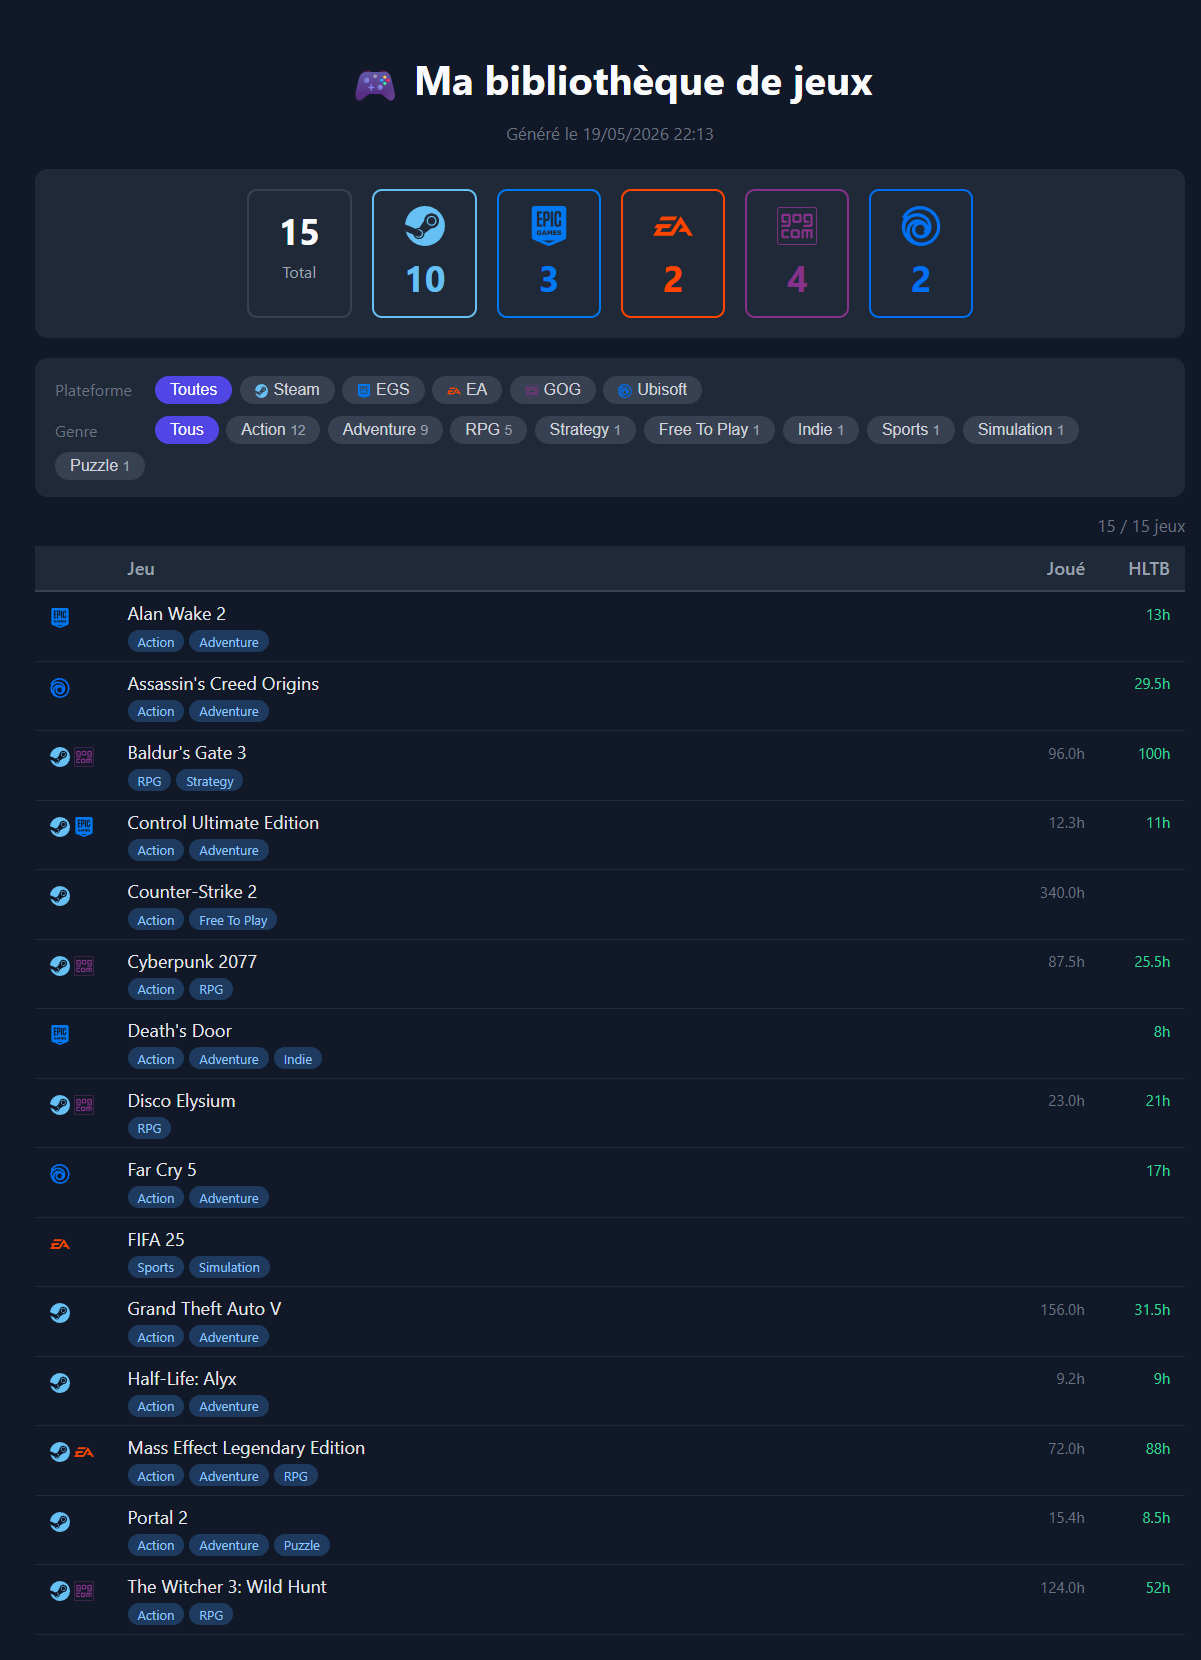
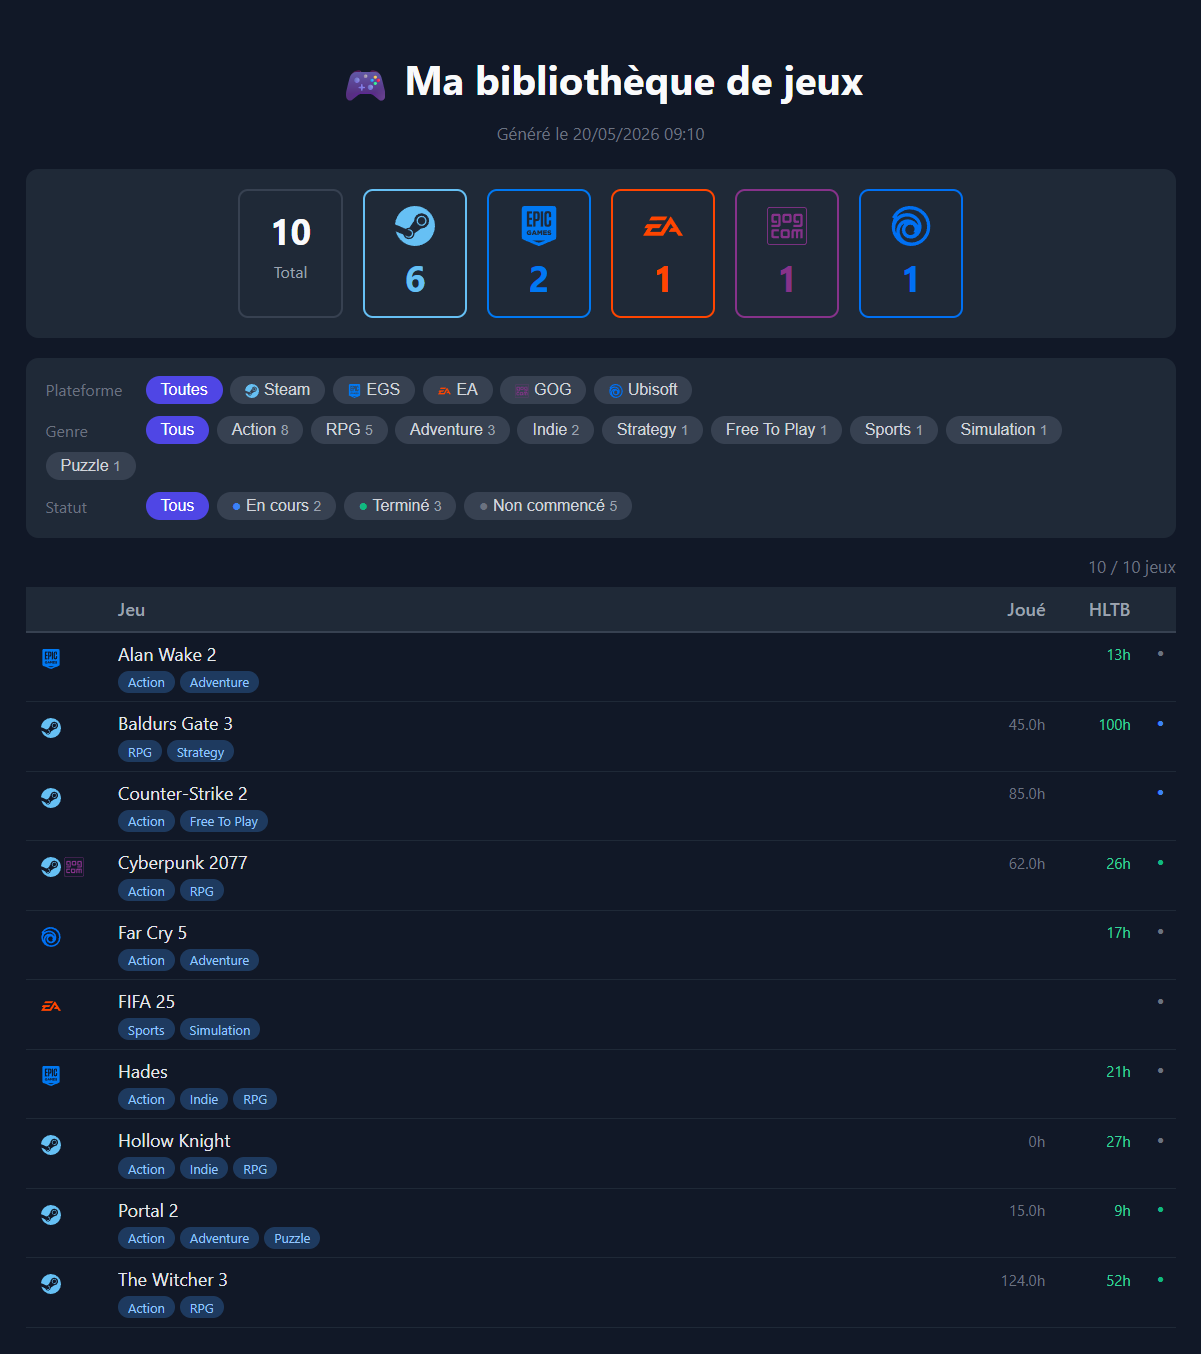
feat: filtre statut progression (A faire / En cours / Termine / Non commence)

diff --git a/docs/preview.html b/docs/preview.html
@@ -39,6 +39,8 @@
   td.hrs  { text-align:right; color:#6b7280; font-size:.85em; width:72px; padding-top:9px; }
   td.hltb { text-align:right; color:#34d399; font-size:.82em; width:68px; padding-top:9px; cursor:default; }
   thead th.hltb { text-align:right; }
+  td.sdot  { text-align:center; width:20px; padding:9px 2px 0; font-size:.65em; cursor:default; }
+  thead th.sdot { width:20px; }
   .tags { display:flex; gap:4px; flex-wrap:wrap; margin-top:4px; }
   .tag  { background:#1e3a5f; color:#93c5fd; font-size:.72em; padding:2px 8px;
             border-radius:10px; }
@@ -46,14 +48,14 @@
 </head>
 <body>
 <h1>🎮 Ma bibliothèque de jeux</h1>
-<p class="ts">Généré le 19/05/2026 22:13</p>
+<p class="ts">Généré le 20/05/2026 09:10</p>
 <div class="stats">
-<div class="stat"><div class="num">15</div><div class="lbl">Total</div></div>
-<div class="stat" style="border-color:#66c0f4"><img src="https://cdn.simpleicons.org/steam/66c0f4" alt="Steam" height="32" title="Steam"><div class="num" style="color:#66c0f4">10</div></div>
-<div class="stat" style="border-color:#0078f2"><img src="https://cdn.simpleicons.org/epicgames/0078f2" alt="EGS" height="32" title="EGS"><div class="num" style="color:#0078f2">3</div></div>
-<div class="stat" style="border-color:#ff4500"><img src="https://cdn.simpleicons.org/ea/ff4500" alt="EA" height="32" title="EA"><div class="num" style="color:#ff4500">2</div></div>
-<div class="stat" style="border-color:#86328a"><img src="https://cdn.simpleicons.org/gogdotcom/86328a" alt="GOG" height="32" title="GOG"><div class="num" style="color:#86328a">4</div></div>
-<div class="stat" style="border-color:#0070f3"><img src="https://cdn.simpleicons.org/ubisoft/0070f3" alt="Ubisoft" height="32" title="Ubisoft"><div class="num" style="color:#0070f3">2</div></div>
+<div class="stat"><div class="num">10</div><div class="lbl">Total</div></div>
+<div class="stat" style="border-color:#66c0f4"><img src="https://cdn.simpleicons.org/steam/66c0f4" alt="Steam" height="32" title="Steam"><div class="num" style="color:#66c0f4">6</div></div>
+<div class="stat" style="border-color:#0078f2"><img src="https://cdn.simpleicons.org/epicgames/0078f2" alt="EGS" height="32" title="EGS"><div class="num" style="color:#0078f2">2</div></div>
+<div class="stat" style="border-color:#ff4500"><img src="https://cdn.simpleicons.org/ea/ff4500" alt="EA" height="32" title="EA"><div class="num" style="color:#ff4500">1</div></div>
+<div class="stat" style="border-color:#86328a"><img src="https://cdn.simpleicons.org/gogdotcom/86328a" alt="GOG" height="32" title="GOG"><div class="num" style="color:#86328a">1</div></div>
+<div class="stat" style="border-color:#0070f3"><img src="https://cdn.simpleicons.org/ubisoft/0070f3" alt="Ubisoft" height="32" title="Ubisoft"><div class="num" style="color:#0070f3">1</div></div>
 
 </div>
 <div class="filters">
@@ -70,50 +72,56 @@
   <div class="filter-row">
     <span class="filter-label">Genre</span>
     <button class="fbtn active" data-type="genre" data-val="all">Tous</button>
-<button class="fbtn" data-type="genre" data-val="action">Action <span class="gcnt">12</span></button>
-<button class="fbtn" data-type="genre" data-val="adventure">Adventure <span class="gcnt">9</span></button>
+<button class="fbtn" data-type="genre" data-val="action">Action <span class="gcnt">8</span></button>
 <button class="fbtn" data-type="genre" data-val="rpg">RPG <span class="gcnt">5</span></button>
+<button class="fbtn" data-type="genre" data-val="adventure">Adventure <span class="gcnt">3</span></button>
+<button class="fbtn" data-type="genre" data-val="indie">Indie <span class="gcnt">2</span></button>
 <button class="fbtn" data-type="genre" data-val="strategy">Strategy <span class="gcnt">1</span></button>
 <button class="fbtn" data-type="genre" data-val="free-to-play">Free To Play <span class="gcnt">1</span></button>
-<button class="fbtn" data-type="genre" data-val="indie">Indie <span class="gcnt">1</span></button>
 <button class="fbtn" data-type="genre" data-val="sports">Sports <span class="gcnt">1</span></button>
 <button class="fbtn" data-type="genre" data-val="simulation">Simulation <span class="gcnt">1</span></button>
 <button class="fbtn" data-type="genre" data-val="puzzle">Puzzle <span class="gcnt">1</span></button>
 
   </div>
+  <div class="filter-row">
+    <span class="filter-label">Statut</span>
+    <button class="fbtn active" data-type="status" data-val="all">Tous</button>
+<button class="fbtn" data-type="status" data-val="en-cours"><span style="color:#3b82f6">●</span> En cours <span class="gcnt">2</span></button>
+<button class="fbtn" data-type="status" data-val="termine"><span style="color:#10b981">●</span> Terminé <span class="gcnt">3</span></button>
+<button class="fbtn" data-type="status" data-val="non-commence"><span style="color:#6b7280">●</span> Non commencé <span class="gcnt">5</span></button>
+
+  </div>
 </div>
-<p class="count-info"><span id="vis-count">15</span> / 15 jeux</p>
+<p class="count-info"><span id="vis-count">10</span> / 10 jeux</p>
 <table>
-  <thead><tr><th></th><th>Jeu</th><th class="hrs">Joué</th><th class="hltb" title="Temps principal (HowLongToBeat)">HLTB</th></tr></thead>
+  <thead><tr><th></th><th>Jeu</th><th class="hrs">Joué</th><th class="hltb" title="Temps principal (HowLongToBeat)">HLTB</th><th class="sdot"></th></tr></thead>
   <tbody>
-<tr data-plats='egs' data-genres='action adventure'><td class='plat'><img src="https://cdn.simpleicons.org/epicgames/0078f2" alt="EGS" height="16" title="EGS"></td><td>Alan Wake 2<div class="tags"><span class="tag">Action</span><span class="tag">Adventure</span></div></td><td class="hrs"></td><td class="hltb" title="Extra 18.5h | 100 % 24h"><a href="https://howlongtobeat.com/game/68160" target="_blank" rel="noopener" style="color:inherit;text-decoration:none">13h</a></td></tr>
-<tr data-plats='ubisoft' data-genres='action adventure'><td class='plat'><img src="https://cdn.simpleicons.org/ubisoft/0070f3" alt="Ubisoft" height="16" title="Ubisoft"></td><td>Assassin's Creed Origins<div class="tags"><span class="tag">Action</span><span class="tag">Adventure</span></div></td><td class="hrs"></td><td class="hltb" title="Extra 54.5h | 100 % 83h"><a href="https://howlongtobeat.com/game/38050" target="_blank" rel="noopener" style="color:inherit;text-decoration:none">29.5h</a></td></tr>
-<tr data-plats='steam gog' data-genres='rpg strategy'><td class='plat'><img src="https://cdn.simpleicons.org/steam/66c0f4" alt="Steam" height="16" title="Steam"><img src="https://cdn.simpleicons.org/gogdotcom/86328a" alt="GOG" height="16" title="GOG"></td><td>Baldur's Gate 3<div class="tags"><span class="tag">RPG</span><span class="tag">Strategy</span></div></td><td class="hrs">96.0h</td><td class="hltb" title="Extra 155h | 100 % 200h"><a href="https://howlongtobeat.com/game/75516" target="_blank" rel="noopener" style="color:inherit;text-decoration:none">100h</a></td></tr>
-<tr data-plats='steam egs' data-genres='action adventure'><td class='plat'><img src="https://cdn.simpleicons.org/steam/66c0f4" alt="Steam" height="16" title="Steam"><img src="https://cdn.simpleicons.org/epicgames/0078f2" alt="EGS" height="16" title="EGS"></td><td>Control Ultimate Edition<div class="tags"><span class="tag">Action</span><span class="tag">Adventure</span></div></td><td class="hrs">12.3h</td><td class="hltb" title="Extra 16h | 100 % 22h"><a href="https://howlongtobeat.com/game/52435" target="_blank" rel="noopener" style="color:inherit;text-decoration:none">11h</a></td></tr>
-<tr data-plats='steam' data-genres='action free-to-play'><td class='plat'><img src="https://cdn.simpleicons.org/steam/66c0f4" alt="Steam" height="16" title="Steam"></td><td>Counter-Strike 2<div class="tags"><span class="tag">Action</span><span class="tag">Free To Play</span></div></td><td class="hrs">340.0h</td><td class="hltb"></td></tr>
-<tr data-plats='steam gog' data-genres='action rpg'><td class='plat'><img src="https://cdn.simpleicons.org/steam/66c0f4" alt="Steam" height="16" title="Steam"><img src="https://cdn.simpleicons.org/gogdotcom/86328a" alt="GOG" height="16" title="GOG"></td><td>Cyberpunk 2077<div class="tags"><span class="tag">Action</span><span class="tag">RPG</span></div></td><td class="hrs">87.5h</td><td class="hltb" title="Extra 55h | 100 % 100h"><a href="https://howlongtobeat.com/game/68606" target="_blank" rel="noopener" style="color:inherit;text-decoration:none">25.5h</a></td></tr>
-<tr data-plats='egs' data-genres='action adventure indie'><td class='plat'><img src="https://cdn.simpleicons.org/epicgames/0078f2" alt="EGS" height="16" title="EGS"></td><td>Death's Door<div class="tags"><span class="tag">Action</span><span class="tag">Adventure</span><span class="tag">Indie</span></div></td><td class="hrs"></td><td class="hltb" title="Extra 12h | 100 % 15h"><a href="https://howlongtobeat.com/game/82118" target="_blank" rel="noopener" style="color:inherit;text-decoration:none">8h</a></td></tr>
-<tr data-plats='steam gog' data-genres='rpg'><td class='plat'><img src="https://cdn.simpleicons.org/steam/66c0f4" alt="Steam" height="16" title="Steam"><img src="https://cdn.simpleicons.org/gogdotcom/86328a" alt="GOG" height="16" title="GOG"></td><td>Disco Elysium<div class="tags"><span class="tag">RPG</span></div></td><td class="hrs">23.0h</td><td class="hltb" title="Extra 31h | 100 % 41h"><a href="https://howlongtobeat.com/game/50919" target="_blank" rel="noopener" style="color:inherit;text-decoration:none">21h</a></td></tr>
-<tr data-plats='ubisoft' data-genres='action adventure'><td class='plat'><img src="https://cdn.simpleicons.org/ubisoft/0070f3" alt="Ubisoft" height="16" title="Ubisoft"></td><td>Far Cry 5<div class="tags"><span class="tag">Action</span><span class="tag">Adventure</span></div></td><td class="hrs"></td><td class="hltb" title="Extra 34h | 100 % 50.5h"><a href="https://howlongtobeat.com/game/40432" target="_blank" rel="noopener" style="color:inherit;text-decoration:none">17h</a></td></tr>
-<tr data-plats='ea' data-genres='sports simulation'><td class='plat'><img src="https://cdn.simpleicons.org/ea/ff4500" alt="EA" height="16" title="EA"></td><td>FIFA 25<div class="tags"><span class="tag">Sports</span><span class="tag">Simulation</span></div></td><td class="hrs"></td><td class="hltb"></td></tr>
-<tr data-plats='steam' data-genres='action adventure'><td class='plat'><img src="https://cdn.simpleicons.org/steam/66c0f4" alt="Steam" height="16" title="Steam"></td><td>Grand Theft Auto V<div class="tags"><span class="tag">Action</span><span class="tag">Adventure</span></div></td><td class="hrs">156.0h</td><td class="hltb" title="Extra 76h | 100 % 165h"><a href="https://howlongtobeat.com/game/9767" target="_blank" rel="noopener" style="color:inherit;text-decoration:none">31.5h</a></td></tr>
-<tr data-plats='steam' data-genres='action adventure'><td class='plat'><img src="https://cdn.simpleicons.org/steam/66c0f4" alt="Steam" height="16" title="Steam"></td><td>Half-Life: Alyx<div class="tags"><span class="tag">Action</span><span class="tag">Adventure</span></div></td><td class="hrs">9.2h</td><td class="hltb" title="Extra 11.5h | 100 % 16h"><a href="https://howlongtobeat.com/game/58556" target="_blank" rel="noopener" style="color:inherit;text-decoration:none">9h</a></td></tr>
-<tr data-plats='steam ea' data-genres='action adventure rpg'><td class='plat'><img src="https://cdn.simpleicons.org/steam/66c0f4" alt="Steam" height="16" title="Steam"><img src="https://cdn.simpleicons.org/ea/ff4500" alt="EA" height="16" title="EA"></td><td>Mass Effect Legendary Edition<div class="tags"><span class="tag">Action</span><span class="tag">Adventure</span><span class="tag">RPG</span></div></td><td class="hrs">72.0h</td><td class="hltb" title="Extra 120h | 100 % 149h"><a href="https://howlongtobeat.com/game/80516" target="_blank" rel="noopener" style="color:inherit;text-decoration:none">88h</a></td></tr>
-<tr data-plats='steam' data-genres='action adventure puzzle'><td class='plat'><img src="https://cdn.simpleicons.org/steam/66c0f4" alt="Steam" height="16" title="Steam"></td><td>Portal 2<div class="tags"><span class="tag">Action</span><span class="tag">Adventure</span><span class="tag">Puzzle</span></div></td><td class="hrs">15.4h</td><td class="hltb" title="Extra 12h | 100 % 18.5h"><a href="https://howlongtobeat.com/game/7902" target="_blank" rel="noopener" style="color:inherit;text-decoration:none">8.5h</a></td></tr>
-<tr data-plats='steam gog' data-genres='action rpg'><td class='plat'><img src="https://cdn.simpleicons.org/steam/66c0f4" alt="Steam" height="16" title="Steam"><img src="https://cdn.simpleicons.org/gogdotcom/86328a" alt="GOG" height="16" title="GOG"></td><td>The Witcher 3: Wild Hunt<div class="tags"><span class="tag">Action</span><span class="tag">RPG</span></div></td><td class="hrs">124.0h</td><td class="hltb" title="Extra 103h | 100 % 173h"><a href="https://howlongtobeat.com/game/10270" target="_blank" rel="noopener" style="color:inherit;text-decoration:none">52h</a></td></tr>
+<tr data-plats='egs' data-genres='action adventure' data-status='non-commence'><td class='plat'><img src="https://cdn.simpleicons.org/epicgames/0078f2" alt="EGS" height="16" title="EGS"></td><td>Alan Wake 2<div class="tags"><span class="tag">Action</span><span class="tag">Adventure</span></div></td><td class="hrs"></td><td class="hltb" title="Extra 18h | 100 % 25h"><a href="https://howlongtobeat.com/game/82789" target="_blank" rel="noopener" style="color:inherit;text-decoration:none">13h</a></td><td class="sdot" style="color:#6b7280" title="Non commencé">●</td></tr>
+<tr data-plats='steam' data-genres='rpg strategy' data-status='en-cours'><td class='plat'><img src="https://cdn.simpleicons.org/steam/66c0f4" alt="Steam" height="16" title="Steam"></td><td>Baldurs Gate 3<div class="tags"><span class="tag">RPG</span><span class="tag">Strategy</span></div></td><td class="hrs">45.0h</td><td class="hltb" title="Extra 175h | 100 % 350h"><a href="https://howlongtobeat.com/game/68598" target="_blank" rel="noopener" style="color:inherit;text-decoration:none">100h</a></td><td class="sdot" style="color:#3b82f6" title="En cours">●</td></tr>
+<tr data-plats='steam' data-genres='action free-to-play' data-status='en-cours'><td class='plat'><img src="https://cdn.simpleicons.org/steam/66c0f4" alt="Steam" height="16" title="Steam"></td><td>Counter-Strike 2<div class="tags"><span class="tag">Action</span><span class="tag">Free To Play</span></div></td><td class="hrs">85.0h</td><td class="hltb"></td><td class="sdot" style="color:#3b82f6" title="En cours">●</td></tr>
+<tr data-plats='steam gog' data-genres='action rpg' data-status='termine'><td class='plat'><img src="https://cdn.simpleicons.org/steam/66c0f4" alt="Steam" height="16" title="Steam"><img src="https://cdn.simpleicons.org/gogdotcom/86328a" alt="GOG" height="16" title="GOG"></td><td>Cyberpunk 2077<div class="tags"><span class="tag">Action</span><span class="tag">RPG</span></div></td><td class="hrs">62.0h</td><td class="hltb" title="Extra 55h | 100 % 90h"><a href="https://howlongtobeat.com/game/68151" target="_blank" rel="noopener" style="color:inherit;text-decoration:none">26h</a></td><td class="sdot" style="color:#10b981" title="Terminé">●</td></tr>
+<tr data-plats='ubisoft' data-genres='action adventure' data-status='non-commence'><td class='plat'><img src="https://cdn.simpleicons.org/ubisoft/0070f3" alt="Ubisoft" height="16" title="Ubisoft"></td><td>Far Cry 5<div class="tags"><span class="tag">Action</span><span class="tag">Adventure</span></div></td><td class="hrs"></td><td class="hltb" title="Extra 30h | 100 % 48h"><a href="https://howlongtobeat.com/game/44933" target="_blank" rel="noopener" style="color:inherit;text-decoration:none">17h</a></td><td class="sdot" style="color:#6b7280" title="Non commencé">●</td></tr>
+<tr data-plats='ea' data-genres='sports simulation' data-status='non-commence'><td class='plat'><img src="https://cdn.simpleicons.org/ea/ff4500" alt="EA" height="16" title="EA"></td><td>FIFA 25<div class="tags"><span class="tag">Sports</span><span class="tag">Simulation</span></div></td><td class="hrs"></td><td class="hltb"></td><td class="sdot" style="color:#6b7280" title="Non commencé">●</td></tr>
+<tr data-plats='egs' data-genres='action indie rpg' data-status='non-commence'><td class='plat'><img src="https://cdn.simpleicons.org/epicgames/0078f2" alt="EGS" height="16" title="EGS"></td><td>Hades<div class="tags"><span class="tag">Action</span><span class="tag">Indie</span><span class="tag">RPG</span></div></td><td class="hrs"></td><td class="hltb" title="Extra 90h"><a href="https://howlongtobeat.com/game/66859" target="_blank" rel="noopener" style="color:inherit;text-decoration:none">21h</a></td><td class="sdot" style="color:#6b7280" title="Non commencé">●</td></tr>
+<tr data-plats='steam' data-genres='action indie rpg' data-status='non-commence'><td class='plat'><img src="https://cdn.simpleicons.org/steam/66c0f4" alt="Steam" height="16" title="Steam"></td><td>Hollow Knight<div class="tags"><span class="tag">Action</span><span class="tag">Indie</span><span class="tag">RPG</span></div></td><td class="hrs">0h</td><td class="hltb" title="Extra 44h | 100 % 68h"><a href="https://howlongtobeat.com/game/38791" target="_blank" rel="noopener" style="color:inherit;text-decoration:none">27h</a></td><td class="sdot" style="color:#6b7280" title="Non commencé">●</td></tr>
+<tr data-plats='steam' data-genres='action adventure puzzle' data-status='termine'><td class='plat'><img src="https://cdn.simpleicons.org/steam/66c0f4" alt="Steam" height="16" title="Steam"></td><td>Portal 2<div class="tags"><span class="tag">Action</span><span class="tag">Adventure</span><span class="tag">Puzzle</span></div></td><td class="hrs">15.0h</td><td class="hltb" title="Extra 11h | 100 % 18h"><a href="https://howlongtobeat.com/game/8173" target="_blank" rel="noopener" style="color:inherit;text-decoration:none">9h</a></td><td class="sdot" style="color:#10b981" title="Terminé">●</td></tr>
+<tr data-plats='steam' data-genres='action rpg' data-status='termine'><td class='plat'><img src="https://cdn.simpleicons.org/steam/66c0f4" alt="Steam" height="16" title="Steam"></td><td>The Witcher 3<div class="tags"><span class="tag">Action</span><span class="tag">RPG</span></div></td><td class="hrs">124.0h</td><td class="hltb" title="Extra 95h | 100 % 175h"><a href="https://howlongtobeat.com/game/10270" target="_blank" rel="noopener" style="color:inherit;text-decoration:none">52h</a></td><td class="sdot" style="color:#10b981" title="Terminé">●</td></tr>
   </tbody>
 </table>
 <script>
 (function() {
-  let activePlat  = 'all';
-  let activeGenre = 'all';
+  let activePlat   = 'all';
+  let activeGenre  = 'all';
+  let activeStatus = 'all';
   function filterRows() {
     let visible = 0;
     document.querySelectorAll('tbody tr').forEach(row => {
       const plats  = (row.dataset.plats  || '').split(' ');
       const genres = (row.dataset.genres || '').split(' ');
-      const ok = (activePlat  === 'all' || plats.includes(activePlat)) &&
-                 (activeGenre === 'all' || genres.includes(activeGenre));
+      const status =  row.dataset.status || '';
+      const ok = (activePlat   === 'all' || plats.includes(activePlat)) &&
+                 (activeGenre  === 'all' || genres.includes(activeGenre)) &&
+                 (activeStatus === 'all' || status === activeStatus);
       row.style.display = ok ? '' : 'none';
       if (ok) visible++;
     });
@@ -128,10 +136,15 @@
         document.querySelectorAll('.fbtn[data-type="plat"]').forEach(b =>
           b.classList.toggle('active', activePlat === 'all' ? b.dataset.val === 'all' : b.dataset.val === activePlat)
         );
-      } else {
+      } else if (type === 'genre') {
         activeGenre = (activeGenre === val || val === 'all') ? 'all' : val;
         document.querySelectorAll('.fbtn[data-type="genre"]').forEach(b =>
           b.classList.toggle('active', activeGenre === 'all' ? b.dataset.val === 'all' : b.dataset.val === activeGenre)
+        );
+      } else {
+        activeStatus = (activeStatus === val || val === 'all') ? 'all' : val;
+        document.querySelectorAll('.fbtn[data-type="status"]').forEach(b =>
+          b.classList.toggle('active', activeStatus === 'all' ? b.dataset.val === 'all' : b.dataset.val === activeStatus)
         );
       }
       filterRows();

diff --git a/list_games.py b/list_games.py
@@ -39,6 +39,10 @@ except ImportError:
     EGS_MANUAL_GAMES = []
     UBI_MANUAL_GAMES = []
     MANUAL_DLCS = []
+try:
+    from config import GAME_STATUS
+except ImportError:
+    GAME_STATUS: dict[str, str] = {}
 
 
 def _normalize_name(s: str) -> str:
@@ -687,6 +691,35 @@ _PLATFORM_ICON = {
 
 _PLATFORM_PRIORITY = {"Steam": 0, "GOG": 1, "EGS": 2, "EA": 3, "Ubisoft": 4}
 
+_STATUS_ORDER = ["a-faire", "en-cours", "termine", "non-commence"]
+_STATUS_LABEL = {
+    "a-faire":      "À faire",
+    "non-commence": "Non commencé",
+    "en-cours":     "En cours",
+    "termine":      "Terminé",
+}
+_STATUS_COLOR = {
+    "a-faire":      "#f59e0b",
+    "non-commence": "#6b7280",
+    "en-cours":     "#3b82f6",
+    "termine":      "#10b981",
+}
+
+
+def _game_status(g: dict) -> str:
+    """Auto-détecte le statut de progression ou applique le override manuel."""
+    norm = _normalize_name(g["name"])
+    for oname, ostatus in GAME_STATUS.items():
+        if _normalize_name(oname) == norm:
+            return ostatus
+    hrs = g.get("hours_played")
+    hm  = g.get("hours_main")
+    if hrs == "" or hrs == 0 or hrs is None:
+        return "non-commence"
+    if hm is not None and isinstance(hrs, (int, float)) and hrs >= hm * 0.9:
+        return "termine"
+    return "en-cours"
+
 
 def export_html(games: list[dict], path: Path) -> None:
     # ── Compte par plateforme ──────────────────────────────
@@ -716,6 +749,8 @@ def export_html(games: list[dict], path: Path) -> None:
                 m["genres"].append(genre)
 
     unified = sorted(merged.values(), key=lambda x: x["name"].lower())
+    for g in unified:
+        g["status"] = _game_status(g)
     total = len(unified)
     ts = datetime.now().strftime("%d/%m/%Y %H:%M")
 
@@ -765,6 +800,24 @@ def export_html(games: list[dict], path: Path) -> None:
             f'</button>\n'
         )
 
+    # ── Filtres statut ─────────────────────────────────────
+    status_count: dict[str, int] = {}
+    for g in unified:
+        status_count[g["status"]] = status_count.get(g["status"], 0) + 1
+    status_btns = '<button class="fbtn active" data-type="status" data-val="all">Tous</button>\n'
+    for s in _STATUS_ORDER:
+        cnt = status_count.get(s, 0)
+        if cnt == 0:
+            continue
+        color = _STATUS_COLOR[s]
+        label = _STATUS_LABEL[s]
+        status_btns += (
+            f'<button class="fbtn" data-type="status" data-val="{s}">'
+            f'<span style="color:{color}">●</span> {label} '
+            f'<span class="gcnt">{cnt}</span>'
+            f'</button>\n'
+        )
+
     # ── Lignes du tableau ──────────────────────────────────
     rows = ""
     for g in unified:
@@ -790,9 +843,13 @@ def export_html(games: list[dict], path: Path) -> None:
             hltb_td = f'<td class="hltb" title="{tooltip}">{inner}</td>'
         else:
             hltb_td = '<td class="hltb"></td>'
+        status = g.get("status", "non-commence")
+        sc = _STATUS_COLOR.get(status, "#6b7280")
+        sl = _STATUS_LABEL.get(status, status)
+        status_td = f'<td class="sdot" style="color:{sc}" title="{sl}">●</td>'
         rows += (
-            f"<tr data-plats='{plat_data}' data-genres='{genre_data}'>"
-            f"<td class='plat'>{logos}</td><td>{name_cell}</td>{hrs_td}{hltb_td}</tr>\n"
+            f"<tr data-plats='{plat_data}' data-genres='{genre_data}' data-status='{status}'>"
+            f"<td class='plat'>{logos}</td><td>{name_cell}</td>{hrs_td}{hltb_td}{status_td}</tr>\n"
         )
 
     html = f"""<!DOCTYPE html>
@@ -836,6 +893,8 @@ def export_html(games: list[dict], path: Path) -> None:
   td.hrs  {{ text-align:right; color:#6b7280; font-size:.85em; width:72px; padding-top:9px; }}
   td.hltb {{ text-align:right; color:#34d399; font-size:.82em; width:68px; padding-top:9px; cursor:default; }}
   thead th.hltb {{ text-align:right; }}
+  td.sdot  {{ text-align:center; width:20px; padding:9px 2px 0; font-size:.65em; cursor:default; }}
+  thead th.sdot {{ width:20px; }}
   .tags {{ display:flex; gap:4px; flex-wrap:wrap; margin-top:4px; }}
   .tag  {{ background:#1e3a5f; color:#93c5fd; font-size:.72em; padding:2px 8px;
             border-radius:10px; }}
@@ -856,24 +915,31 @@ def export_html(games: list[dict], path: Path) -> None:
     <span class="filter-label">Genre</span>
     {genre_btns}
   </div>
+  <div class="filter-row">
+    <span class="filter-label">Statut</span>
+    {status_btns}
+  </div>
 </div>
 <p class="count-info"><span id="vis-count">{total}</span> / {total} jeux</p>
 <table>
-  <thead><tr><th></th><th>Jeu</th><th class="hrs">Joué</th><th class="hltb" title="Temps principal (HowLongToBeat)">HLTB</th></tr></thead>
+  <thead><tr><th></th><th>Jeu</th><th class="hrs">Joué</th><th class="hltb" title="Temps principal (HowLongToBeat)">HLTB</th><th class="sdot"></th></tr></thead>
   <tbody>
 {rows}  </tbody>
 </table>
 <script>
 (function() {{
-  let activePlat  = 'all';
-  let activeGenre = 'all';
+  let activePlat   = 'all';
+  let activeGenre  = 'all';
+  let activeStatus = 'all';
   function filterRows() {{
     let visible = 0;
     document.querySelectorAll('tbody tr').forEach(row => {{
       const plats  = (row.dataset.plats  || '').split(' ');
       const genres = (row.dataset.genres || '').split(' ');
-      const ok = (activePlat  === 'all' || plats.includes(activePlat)) &&
-                 (activeGenre === 'all' || genres.includes(activeGenre));
+      const status =  row.dataset.status || '';
+      const ok = (activePlat   === 'all' || plats.includes(activePlat)) &&
+                 (activeGenre  === 'all' || genres.includes(activeGenre)) &&
+                 (activeStatus === 'all' || status === activeStatus);
       row.style.display = ok ? '' : 'none';
       if (ok) visible++;
     }});
@@ -888,10 +954,15 @@ def export_html(games: list[dict], path: Path) -> None:
         document.querySelectorAll('.fbtn[data-type="plat"]').forEach(b =>
           b.classList.toggle('active', activePlat === 'all' ? b.dataset.val === 'all' : b.dataset.val === activePlat)
         );
-      }} else {{
+      }} else if (type === 'genre') {{
         activeGenre = (activeGenre === val || val === 'all') ? 'all' : val;
         document.querySelectorAll('.fbtn[data-type="genre"]').forEach(b =>
           b.classList.toggle('active', activeGenre === 'all' ? b.dataset.val === 'all' : b.dataset.val === activeGenre)
+        );
+      }} else {{
+        activeStatus = (activeStatus === val || val === 'all') ? 'all' : val;
+        document.querySelectorAll('.fbtn[data-type="status"]').forEach(b =>
+          b.classList.toggle('active', activeStatus === 'all' ? b.dataset.val === 'all' : b.dataset.val === activeStatus)
         );
       }}
       filterRows();

diff --git a/config.example.py b/config.example.py
@@ -30,3 +30,16 @@ UBI_MANUAL_GAMES: list[str] = [
 MANUAL_DLCS: list[str] = [
     # "Borderlands 3 Bounty of Blood",
 ]
+
+# ── Statut de progression ─────────────────────────────────────────
+# Forcer le statut d'un jeu. Valeurs possibles :
+#   "a-faire"      → dans votre liste à faire (pas encore acheté ou pas commencé)
+#   "en-cours"     → en train d'y jouer
+#   "termine"      → terminé
+#   "non-commence" → pas encore commencé (utile pour réinitialiser l'auto-détection)
+# Les jeux non listés sont auto-détectés à partir du temps de jeu Steam.
+GAME_STATUS: dict[str, str] = {
+    # "Cyberpunk 2077": "termine",
+    # "Hades": "en-cours",
+    # "Hollow Knight": "a-faire",
+}